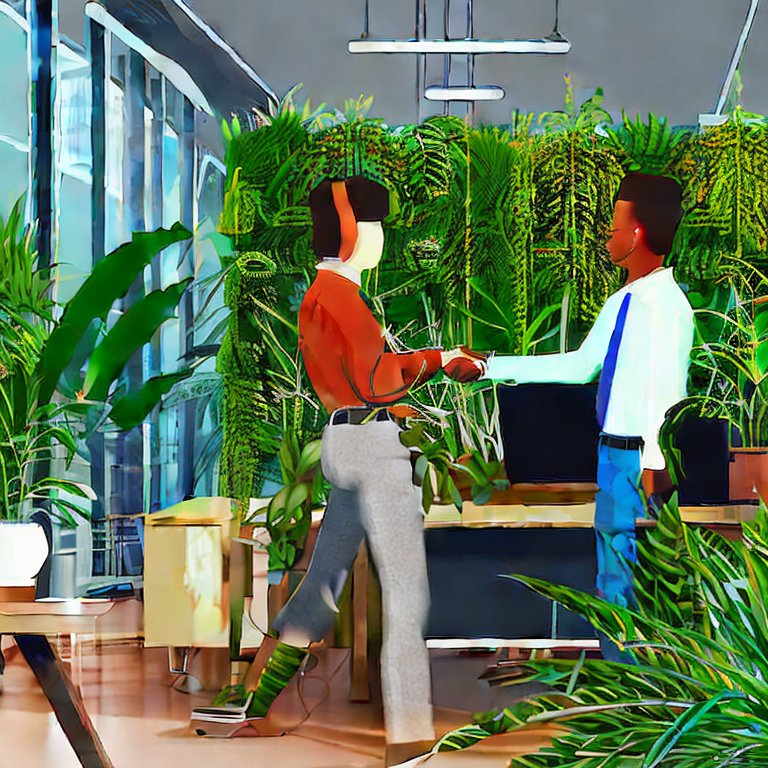
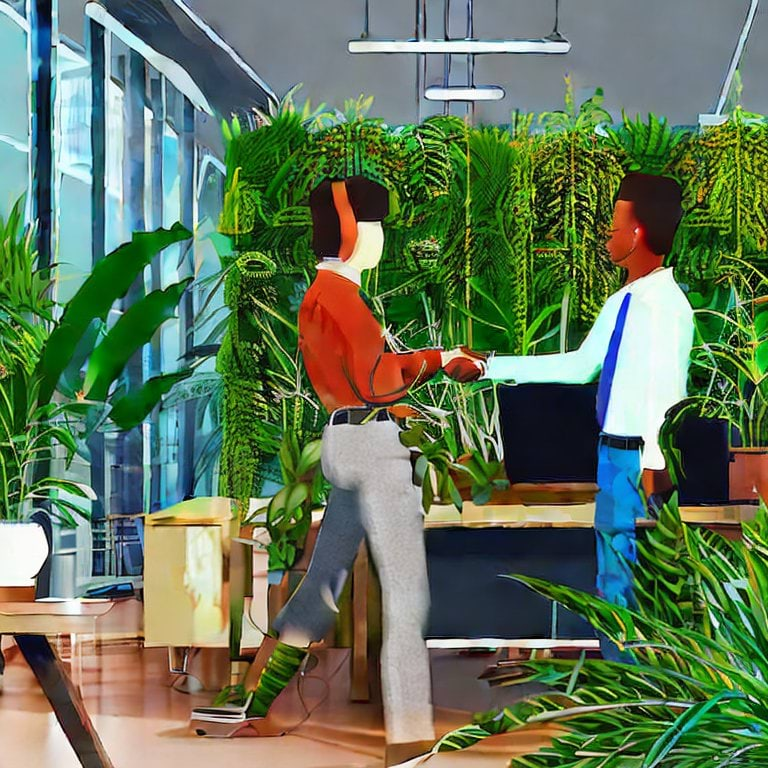
optimize images

diff --git a/portfolio.html b/portfolio.html
@@ -71,7 +71,7 @@
 			<p>Check out some of my recent projects where I helped purpose-driven organizations make a positive impact through user-centered web design.</p>
 		</section>
 		<div class="inline full">
-			<img src="assets/images/graphical-analysis-desktop-mockup.png" style="max-inline-size: 60%;" class="grow-2 full" alt="desktop mockup of graphical analysis application">
+			<img src="assets/images/graphical-analysis-desktop-mockup.jpeg" style="max-inline-size: 60%;" class="grow-2 full" alt="desktop mockup of graphical analysis application">
 			<section class="stack space-l grow-1">
 				<p class="overline">Helping Science Education Companies Thrive</p>
 				<h2 class="subsection">Developing User-Friendly and Accessible Science Education Software</h2>
@@ -87,7 +87,7 @@
 				<p>To assist the climate strikes that occurred in 2019, I designed and developed a website to help inspire 15,000 attendees to strikes happening all across Oregon. By creating a visually appealing and easy-to-use website, I was able to mobilize thousands of people and make a real impact in the fight against climate change.</p>
 				<a href="https://climatestrikeoregon.org/" class="btn">View Website</a>
 			</section>
-			<img src="assets/images/climate-strike-desktop-mockup.png" style="max-inline-size: 60%;" class="full grow-2" alt="desktop mockup of climate strike oregon website">
+			<img src="assets/images/climate-strike-desktop-mockup.jpeg" style="max-inline-size: 60%;" class="full grow-2" alt="desktop mockup of climate strike oregon website">
 		</div>
 		<div>
 			<section class="stack align-center text-center space-l">

diff --git a/index.html b/index.html
@@ -72,7 +72,7 @@
 	</header>
 	<main>
 		<div class="inline">
-			<img class="full grow-2" src="assets/images/profile.jpg" alt="illustration of someone walking away">
+			<img class="full grow-2" src="assets/images/profile.jpeg" alt="illustration of someone walking away">
 			<section class="grow-1">
 				<p class="overline">Driven by Purpose</p>
 				<h2 class="section">Hi I'm Dustin</h2>
@@ -93,13 +93,13 @@
 			<h2 class="section">Featured Projects</h2>
 			<div class="switcher phone-down gap-l space-l">
 				<a href="https://www.vernier.com/product-category/?category=software" class="card align-stretch media">
-					<img src="assets/images/graphical-analysis-mobile-mockup.png" alt="mobile mockup of graphical analysis application">
+					<img src="assets/images/graphical-analysis-mobile-mockup.jpeg" alt="mobile mockup of graphical analysis application">
 					<div class="inset-2xs stack grow-1 align-center justify-center">
 						<p class="title">Vernier Science Education</p>
 					</div>
 				</a>
 				<a href="https://climatestrikeoregon.org/" class="card media align-stretch">
-					<img src="assets/images/climate-strike-mobile-mockup.png" alt="mobile mockup of climate strike oregon website">
+					<img src="assets/images/climate-strike-mobile-mockup.jpeg" alt="mobile mockup of climate strike oregon website">
 					<div class="inset-2xs stack grow-1 align-center justify-center">
 						<p class="title">Climate Strike Oregon</p>
 					</div>

diff --git a/resume.html b/resume.html
@@ -134,13 +134,13 @@
 			<h2 class="section">Featured Projects</h2>
 			<div class="switcher phone-down gap-l space-l">
 				<a href="https://www.vernier.com/product-category/?category=software" class="card align-stretch media">
-					<img src="assets/images/graphical-analysis-mobile-mockup.png" alt="mobile mockup of graphical analysis application">
+					<img src="assets/images/graphical-analysis-mobile-mockup.jpeg" alt="mobile mockup of graphical analysis application">
 					<div class="inset-2xs stack grow-1 align-center justify-center">
 						<p class="title">Vernier Science Education</p>
 					</div>
 				</a>
 				<a href="https://climatestrikeoregon.org/" class="card media align-stretch">
-					<img src="assets/images/climate-strike-mobile-mockup.png" alt="mobile mockup of climate strike oregon website">
+					<img src="assets/images/climate-strike-mobile-mockup.jpeg" alt="mobile mockup of climate strike oregon website">
 					<div class="inset-2xs stack grow-1 align-center justify-center">
 						<p class="title">Climate Strike Oregon</p>
 					</div>
